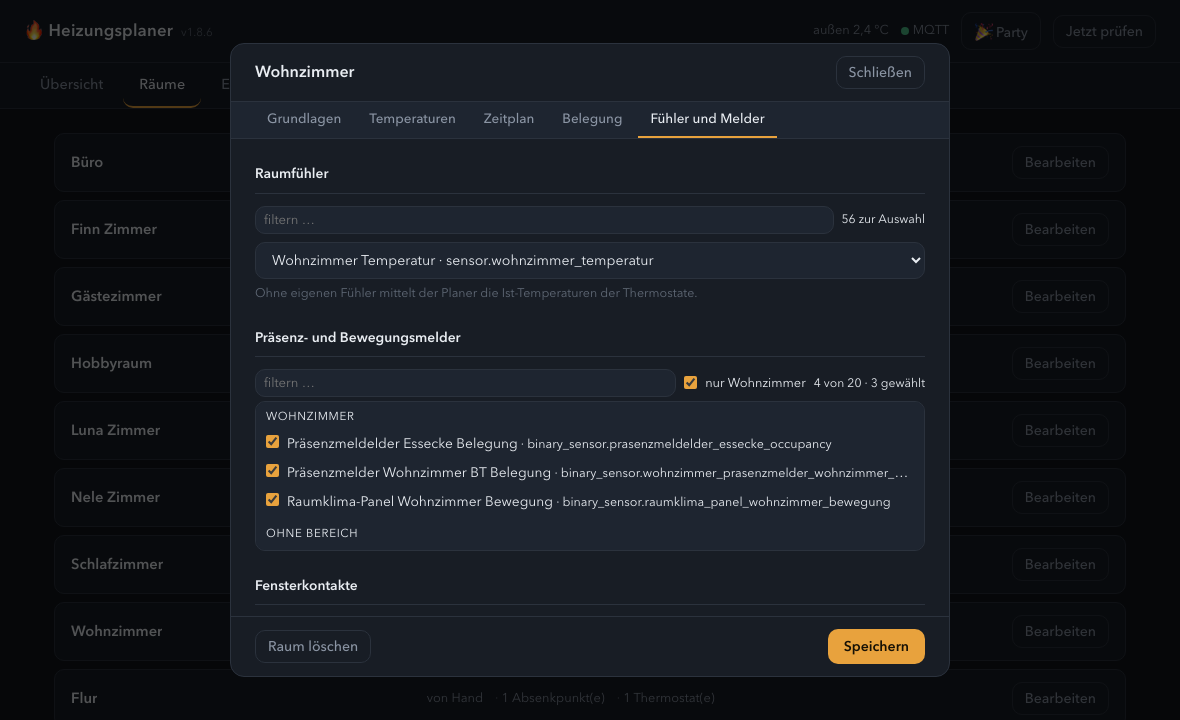
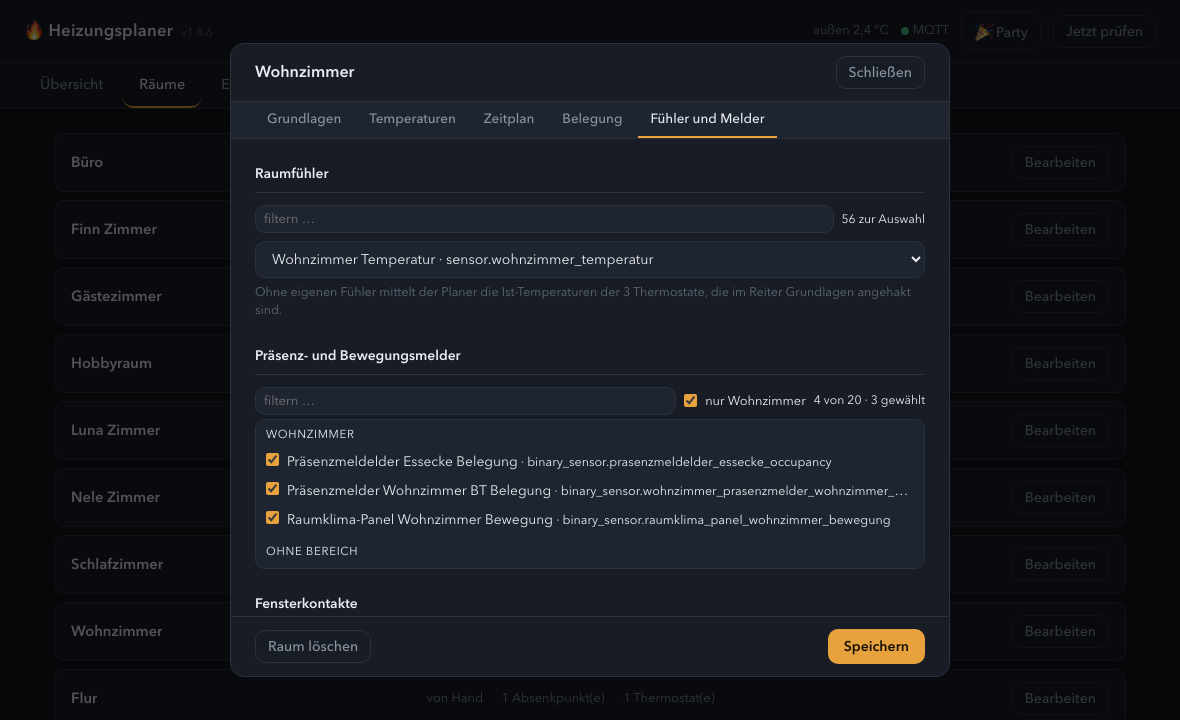
Raumfühler: sagen, welche Thermostate gemittelt werden
„Ohne eigenen Fühler mittelt der Planer die Ist-Temperaturen der Thermostate“
ließ offen, welche gemeint sind – im selben Reiter stehen darunter die
Präsenzmelder. Gemeint sind die Thermostate des Raumes, also die im Reiter
Grundlagen angehakten.

Der Hinweis nennt sie jetzt so und zählt sie mit („der 3 Thermostate, die im
Reiter Grundlagen angehakt sind“), und er folgt der Auswahl, während man sie
ändert. Ist keines angehakt, sagt er auch das.

diff --git a/heizungsplaner/frontend/index.html b/heizungsplaner/frontend/index.html
@@ -732,8 +732,7 @@
         <h3>Raumfühler</h3>
         <div class="feld">
           <select id="r-raumtemp"></select>
-          <div class="notiz">Ohne eigenen Fühler mittelt der Planer die
-            Ist-Temperaturen der Thermostate.</div></div>
+          <div class="notiz" id="r-raumtemp-notiz"></div></div>
       </div>
       <div class="abschnitt">
         <h3>Präsenz- und Bewegungsmelder</h3>
@@ -1132,6 +1131,21 @@ function gehoertZumRaum(eintrag, raum) {
   if (raum.bereiche.has((eintrag.bereich || '').toLowerCase())) return true;
   const text = ohneZierrat(eintrag.name + ' ' + eintrag.entity_id);
   return raum.worte.some(wort => text.includes(wort));
+}
+
+// Welche Thermostate gemittelt werden, wenn kein eigener Fühler eingetragen
+// ist: die des Raumes, angehakt im Reiter Grundlagen. Die Zahl steht mit
+// dabei, damit die Frage gar nicht erst aufkommt.
+function raumtempNotiz() {
+  const feld = $('r-raumtemp-notiz');
+  if (!feld) return;
+  const anzahl = gewaehlt($('r-thermostate')).length;
+  const wieviele = anzahl === 0 ? 'der Thermostate dieses Raumes – zurzeit ist '
+                                  + 'im Reiter Grundlagen keines angehakt'
+    : anzahl === 1 ? 'des Thermostats, das im Reiter Grundlagen angehakt ist'
+    : 'der ' + anzahl + ' Thermostate, die im Reiter Grundlagen angehakt sind';
+  feld.textContent = 'Ohne eigenen Fühler mittelt der Planer die '
+    + 'Ist-Temperaturen ' + wieviele + '.';
 }
 
 // Beim Öffnen eines Raumes fängt jede Liste von vorn an: kein Suchtext, und
@@ -1710,7 +1724,8 @@ function raumOeffnen(raum, startblatt) {
                  {gruppiert:true, raum: raumbezug, raumName});
   auswahlFuellen($('r-personen'), entitaeten.personen, d.personen, {filter:false});
   auswahlFuellen($('r-raumtemp'), entitaeten.raumtemp, d.raumtemp,
-                 {leerText:'Mittelwert der Thermostate'});
+                 {leerText:'Mittelwert der Thermostate dieses Raumes'});
+  raumtempNotiz();
   fuelleAuswahl($('r-freigabe'), entitaeten.schalter || [], d.freigabe_entity,
                 'immer freigegeben');
   auswahlFuellen($('r-praesenz'), entitaeten.praesenz, d.praesenz,
@@ -1737,6 +1752,11 @@ function raumOeffnen(raum, startblatt) {
 }
 
 $('btn-neuer-raum').onclick = () => raumOeffnen(null);
+
+// Wer im Reiter Grundlagen ein Thermostat dazunimmt, soll die Notiz beim
+// Raumfühler gleich angepasst vorfinden. Der Zuhörer sitzt am Behälter – die
+// Häkchen selbst werden bei jedem Filterwechsel neu gebaut.
+$('r-thermostate').addEventListener('change', raumtempNotiz);
 
 $('btn-raum-speichern').onclick = async () => {
   const koerper = {

diff --git a/heizungsplaner/backend/version.py b/heizungsplaner/backend/version.py
@@ -1,1 +1,1 @@
-VERSION = "1.8.9"
+VERSION = "1.8.10"

diff --git a/heizungsplaner/CHANGELOG.md b/heizungsplaner/CHANGELOG.md
@@ -1,5 +1,12 @@
 # Änderungen
 
+## 1.8.10
+
+- **„Mittelwert der Thermostate“ sagt jetzt, welcher.** Gemeint waren immer
+  die Thermostate des Raumes – die im Reiter *Grundlagen* angehakten –, aber
+  das stand nirgends. Der Hinweis nennt sie beim Namen und zählt sie mit; er
+  folgt der Auswahl, während man sie ändert.
+
 ## 1.8.9
 
 - **Geräte werden angehakt statt markiert.** Thermostate, Präsenzmelder,
